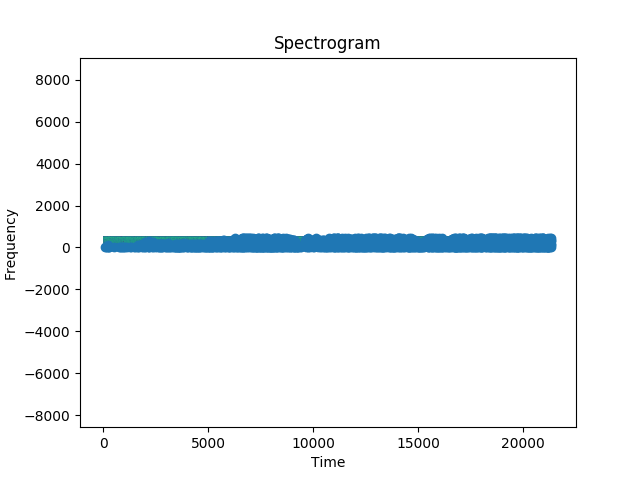
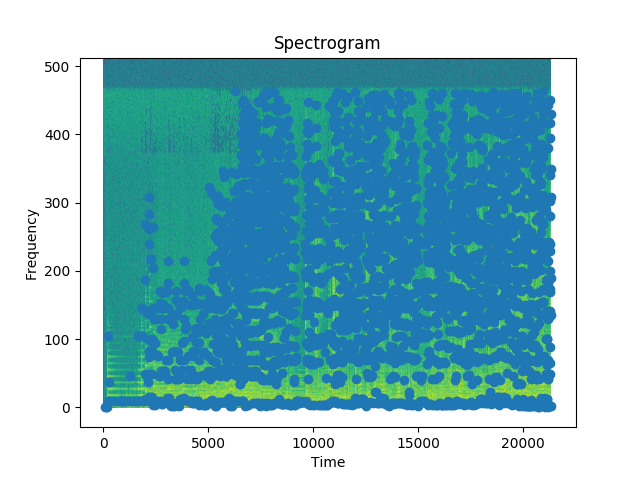
20 neighbors of peak

diff --git a/readwav.py b/readwav.py
@@ -35,7 +35,7 @@ DEFAULT_AMP_MIN = 10
 # Number of cells around an amplitude peak in the spectrogram in order
 # for Dejavu to consider it a spectral peak. Higher values mean less
 # fingerprints and faster matching, but can potentially affect accuracy.
-PEAK_NEIGHBORHOOD_SIZE = 20
+PEAK_NEIGHBORHOOD_SIZE = 200
 
 
 def read_wav(wav_file):
@@ -123,9 +123,9 @@ def get_2D_peaks(arr2D, plot=False, amp_min=DEFAULT_AMP_MIN):
         ax.set_xlabel('Time')
         ax.set_ylabel('Frequency')
         ax.set_title("Spectrogram")
-        ax.axis('scaled')
+        ax.axis('normal')
         plt.gca().invert_yaxis()
-        plt.savefig('_peak.png')
+        plt.savefig('200_peak.png')
 
     return zip(frequency_idx, time_idx)
 
